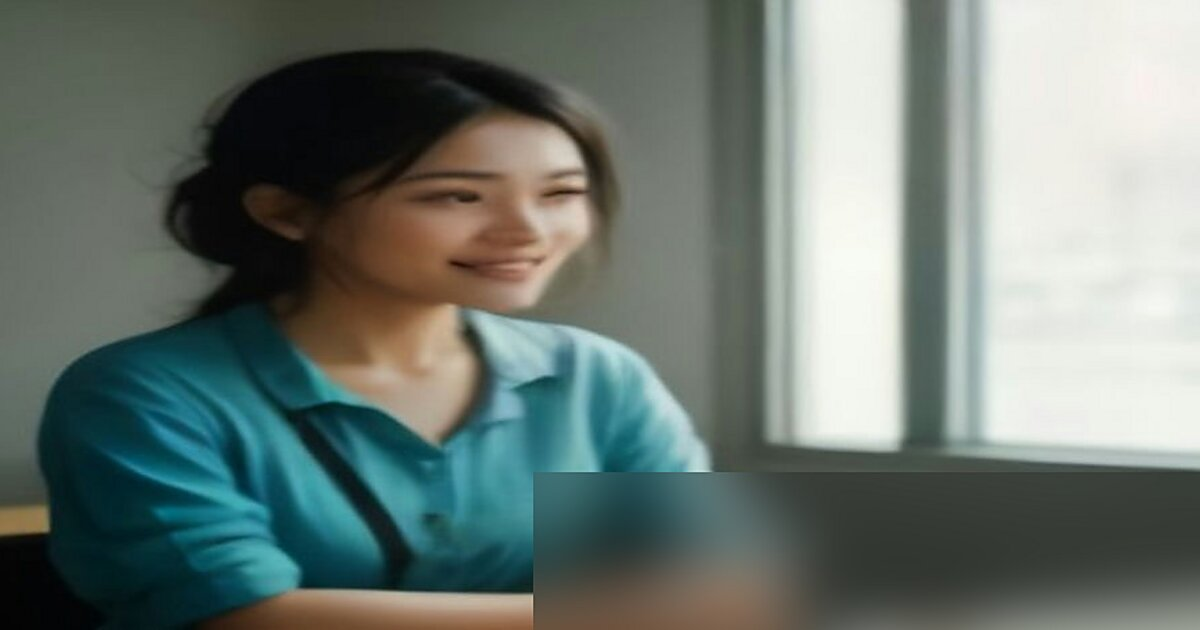
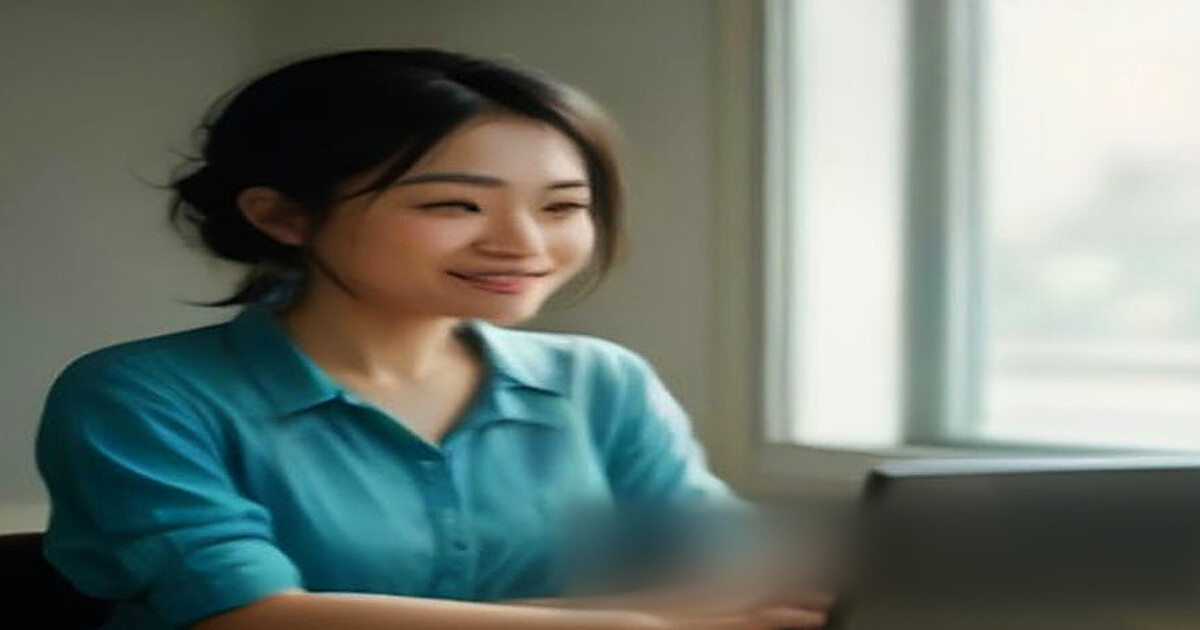
feat(blog): sharpen image pipeline to the free-tier ceiling
Peter: reduce softness. Levers applied (Pexels API is dead):
- prompt: camera language (EOS R5 50mm, tack-sharp, detailed skin/fabric)
- processing: dual-radius unsharp (fine + local-contrast) + 8% saturation
  + sigmoidal curve — +63% edge-contrast vs single unsharp (measured A/B
  on identical source; vision models misjudge sharpness direction)
- scrim veil lightened 0.55→0.32 max (opaque band still carries title
  contrast; heavy veil read as washed/soft)
- watermark patch now edge-feathered (hard paste left a rectangular seam;
  OCR re-verified no pollinations text survives)
- JPEG q85→q90 (finals ~40-110KB)

Also probed the service: 1059×556 cap applies to flux/sana/flux-realism
alike, steps param 402s, flux-realism ignores scene prompts. Paid pollen
key is the only remaining upgrade path. All 17 images regenerated.

diff --git a/CLAUDE.md b/CLAUDE.md
@@ -139,7 +139,7 @@ A scheduled GitHub Action drafts a new post each week and opens a **PR for revie
 
 - **Workflow:** `.github/workflows/weekly-blog.yml` — `cron "7 1 * * 2"` (Tue ~09:07 SGT, English) + `cron "13 0 1 * *"` (1st of month, alternating **Chinese / Malay** by month parity). Also `workflow_dispatch` with a `lang` input to generate on demand.
 - **Generator:** `scripts/generate-blog-post.mjs` — picks the next topic from `scripts/blog-topics.json` deterministically by week (or by month for multilingual), calls the **z.ai GLM API** (OpenAI-compatible; defaults to the **coding endpoint** `https://api.z.ai/api/coding/paas/v4` with `thinking:{type:disabled}` for speed — switch `ZAI_BASE_URL` to `…/paas/v4` for a non-coding key), writes a markdown file to `src/content/blog/` with frontmatter matching the collection schema, and emits `title`/`slug`/`category`/`pillar`/`lang`/`mode`/`source_url`/`source_check` to `GITHUB_OUTPUT`.
-- **Per-post feature/og images** (`scripts/generate-blog-image.mjs`, 2026-10-20): every post gets `heroImage: /images/blog/<slug>.jpg` (1200×630 JPEG) — used by `BlogPost.astro` as og:image, twitter card, JSON-LD image and in-page hero. Composition = **Pollinations flux photoreal scene** (keyless, deterministic seed from slug hash; **people in real workplaces** — salon/clinic/tutoring/retail/etc. picked from title keywords via `SCENE_RULES`; switched from abstract vector art to photorealistic on 2026-10-21 at Peter's request) + ImageMagick overlay (dark-teal scrim, category label, white title, waai.me mark). Called automatically by the weekly generator (never fatal — falls back to site-default og card) and standalone: `node scripts/generate-blog-image.mjs --all [--force]` / `<post.md>`. Gotchas: **Pollinations free tier = 1 image/45s/IP** (HTTP 402 FREE_LIMIT — script sleeps 50s between retries, 47s between posts); **Pollinations caps flux output at ~1059×556 regardless of the requested width/height** — the pipeline upscales ~1.2× and compensates with `-unsharp` (free flux is also inherently soft/airbrushed; subjects are recognizable but not crisp); **Pollinations watermarks the art's lower area even with `nologo=true`** — triple defense (crop 94x84%, blur+darken bottom-right quadrant, opaque scrim band); error responses are ~322B JSON (guard: <5KB ⇒ fail); non-ASCII titles (zh/ms) get art-only (no text overlay — no CJK font bundled); Inter TTFs live in `scripts/assets/`; ImageMagick is preinstalled on both this box and GitHub `ubuntu-latest` runners.
+- **Per-post feature/og images** (`scripts/generate-blog-image.mjs`, 2026-10-20): every post gets `heroImage: /images/blog/<slug>.jpg` (1200×630 JPEG) — used by `BlogPost.astro` as og:image, twitter card, JSON-LD image and in-page hero. Composition = **Pollinations flux photoreal scene** (keyless, deterministic seed from slug hash; **people in real workplaces** — salon/clinic/tutoring/retail/etc. picked from title keywords via `SCENE_RULES`; switched from abstract vector art to photorealistic on 2026-10-21 at Peter's request) + ImageMagick overlay (dark-teal scrim, category label, white title, waai.me mark). Called automatically by the weekly generator (never fatal — falls back to site-default og card) and standalone: `node scripts/generate-blog-image.mjs --all [--force]` / `<post.md>`. Gotchas: **Pollinations free tier = 1 image/45s/IP** (HTTP 402 FREE_LIMIT — script sleeps 50s between retries, 47s between posts); **free-tier output is capped at ~1059×556 regardless of requested size or model** (flux, sana and flux-realism all return it; the `steps` param 402s; `/models` only lists sana; paid "pollen key" is the upgrade path) and distilled inference is inherently soft — the pipeline upscales ~1.2× and compensates with **dual-radius unsharp + slight saturation + sigmoidal contrast (+63% edge-contrast, measured A/B — vision models flip on sharpness judgments, trust ImageMagick `-edge` metrics)**, camera-language prompt tokens, a light scrim veil (tint max 0.32 — the opaque band carries title contrast; a heavy veil reads as a washed photo), a **feathered** watermark-patch mask (hard-edged paste leaves a visible seam), and JPEG q90; **Pollinations watermarks the art's lower area even with `nologo=true`** — triple defense (crop 94x84%, blur+darken bottom-right quadrant, opaque scrim band); error responses are ~322B JSON (guard: <5KB ⇒ fail); non-ASCII titles (zh/ms) get art-only (no text overlay — no CJK font bundled); Inter TTFs live in `scripts/assets/`; ImageMagick is preinstalled on both this box and GitHub `ubuntu-latest` runners.
 - **News-commentary mode (react to industry news):** dispatch the workflow with `source_url` (+ optional `source_name` display override, e.g. "IDC via WhatsApp for Business") — or run the generator with `SOURCE_URL`/`SOURCE_NAME` env. It fetches the article (stdlib fetch + regex HTML→text, browser UA, 3 retries; fails loudly <1500 chars), skips the topic rotation, writes an **original** commentary (category `News`) that cites the source, and writes `sourceUrl`/`sourceName` frontmatter which `BlogPost.astro` renders as a link-back attribution box (`blog.sourceLabel` i18n key, en+zh). **Legal guardrails**: max 2 blockquoted excerpts <25 words each, first body link = source, and a post-generation **verbatim check** (≥13-word run shared with the source outside quotes → resample up to 3×, then hard fail; 8–12-word runs only warn — they're usually statistic citations, and facts aren't copyrightable expression — and are surfaced in the PR's Originality-check line for review). For zh runs the quote stays in English (translation is still derivative); the slug gets a `-{lang}` suffix so same-source EN+ZH PRs can't collide. Dispatch EN first, merge, then ZH. Never add a news brief to `blog-topics.json` — the rotation is positional.
 - **Topic queue:** `scripts/blog-topics.json` — 14 curated briefs across 5 pillars (buyer's guides, use-cases/verticals, product deep-dives, reseller/agency, news/policy). Edit/extend this file to steer the editorial calendar; rotation is deterministic so no state file.
 - **PR step:** `peter-evans/create-pull-request@v6` commits the new file on a `blog/auto-<run_id>` branch and opens a PR titled `blog: <title>` with a `automated-blog` label. Merge → `deploy.yml` fires → live.
